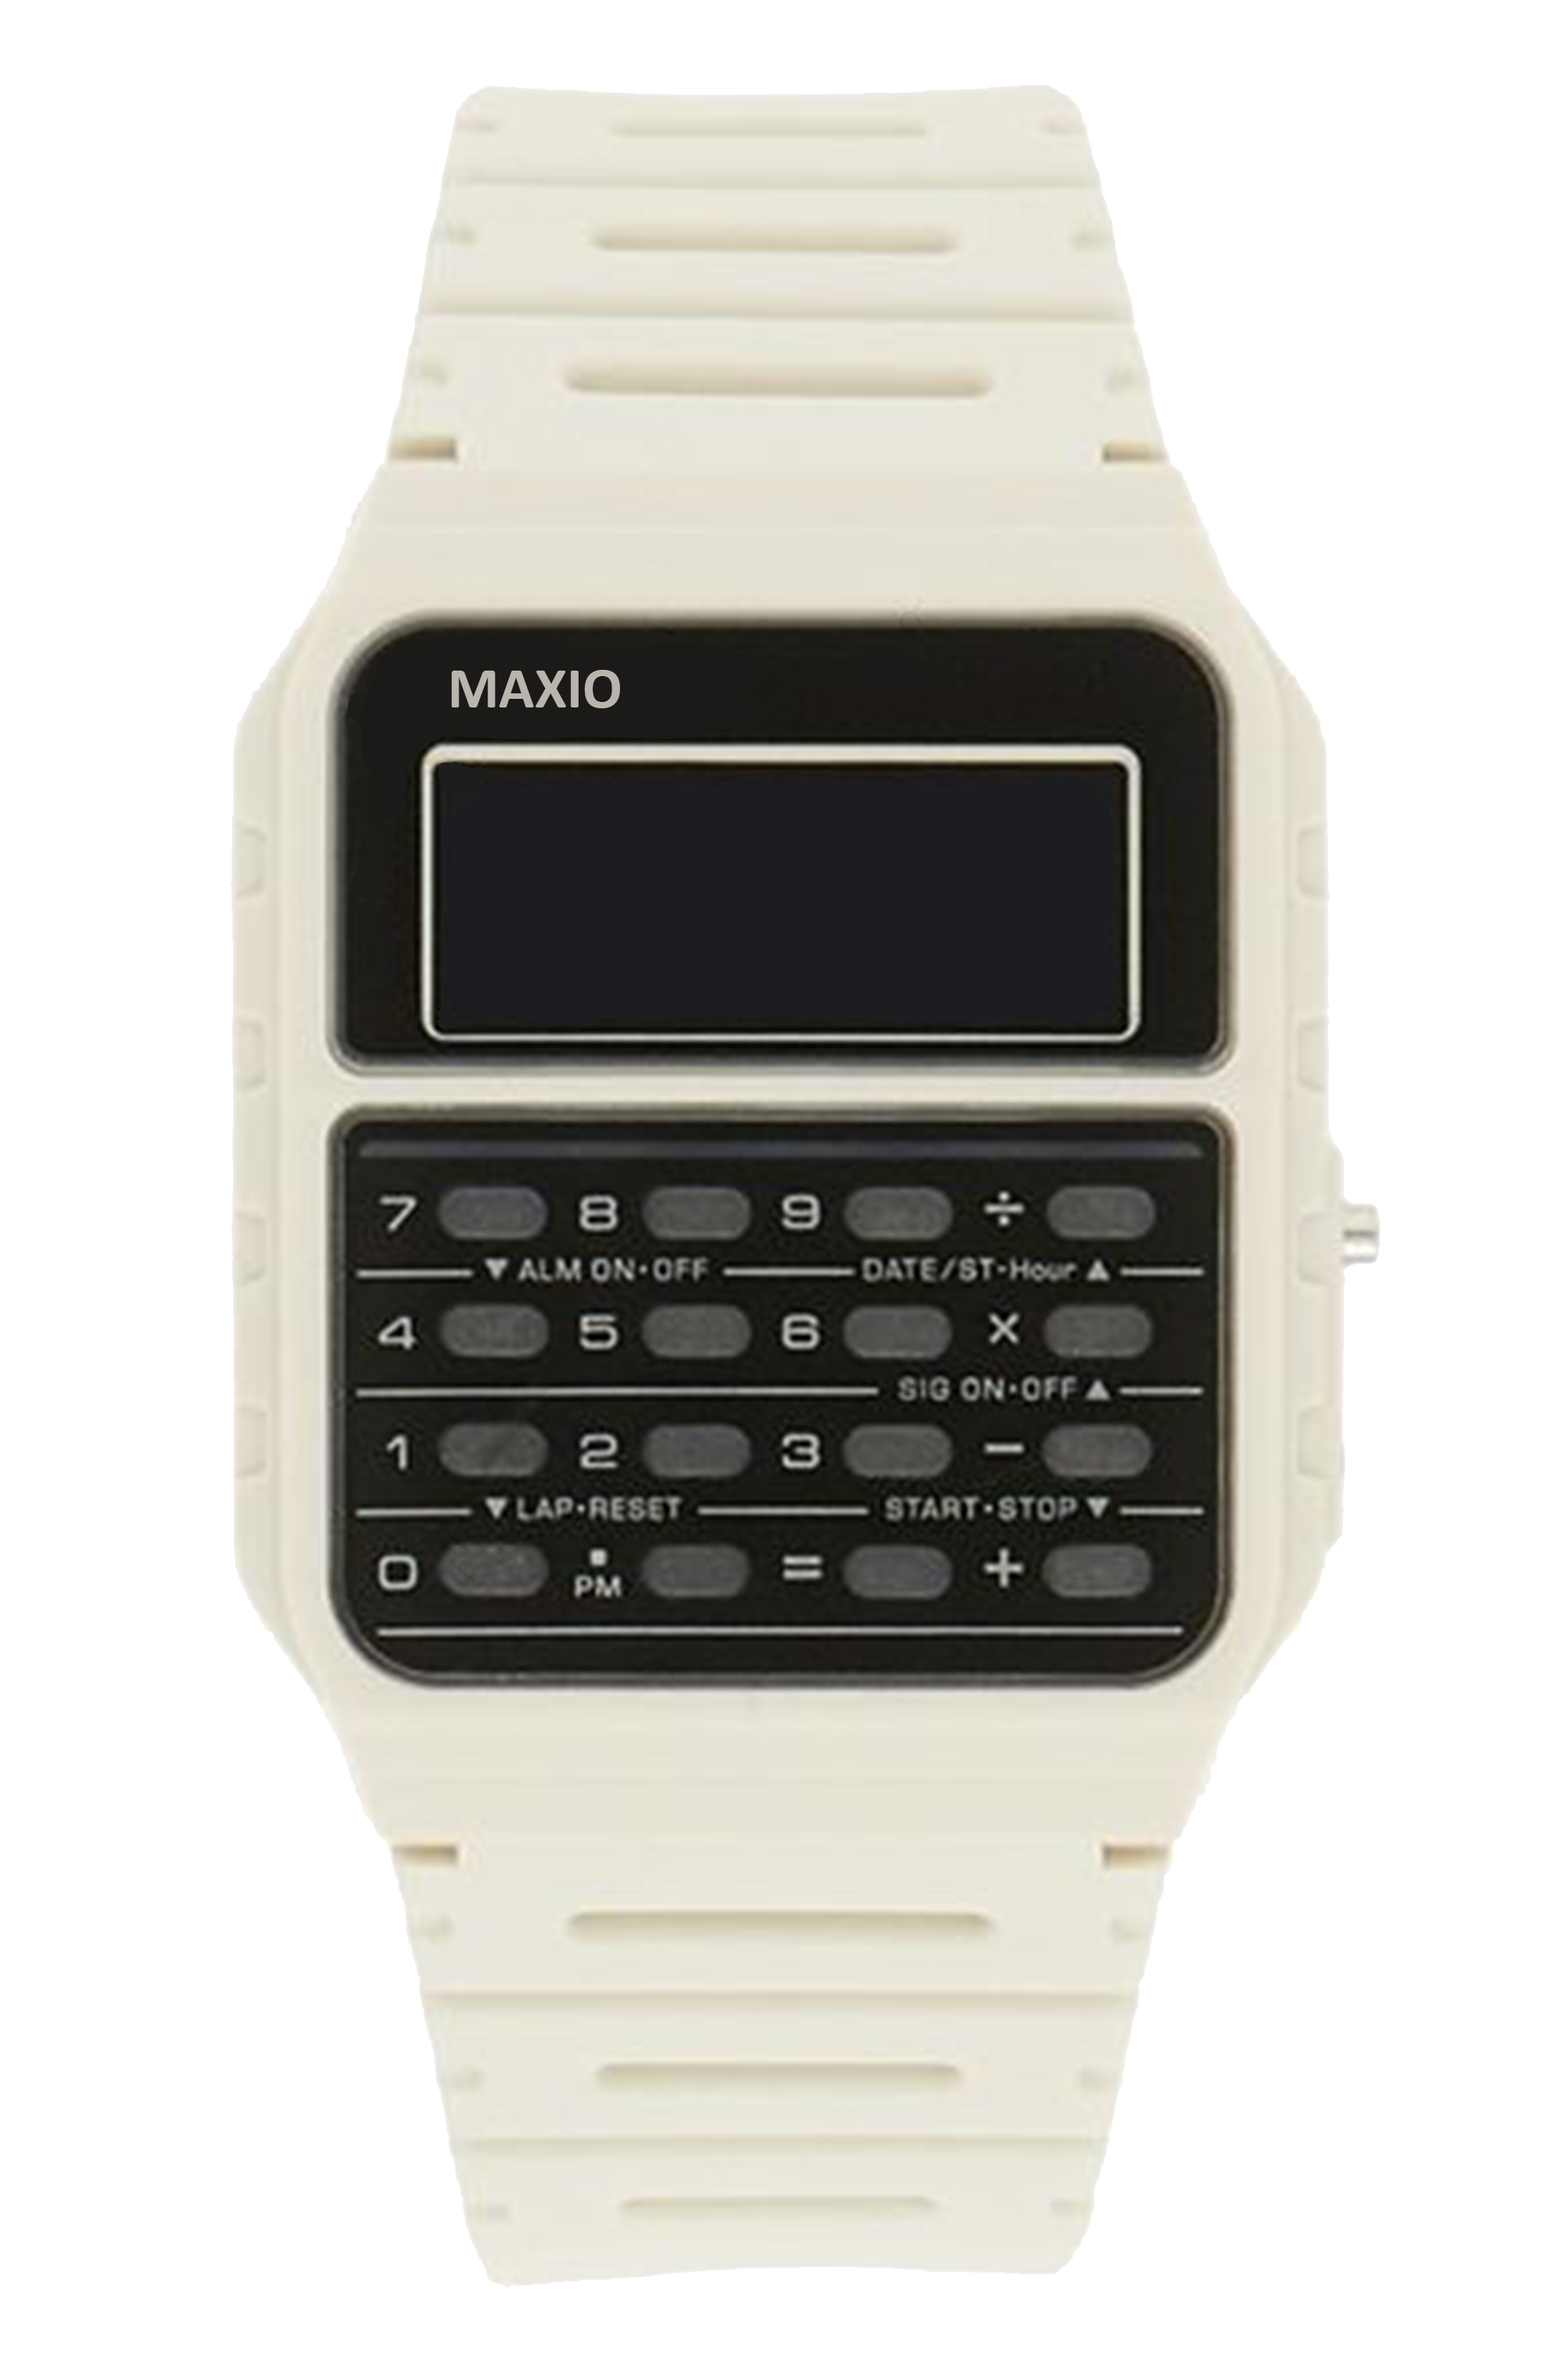
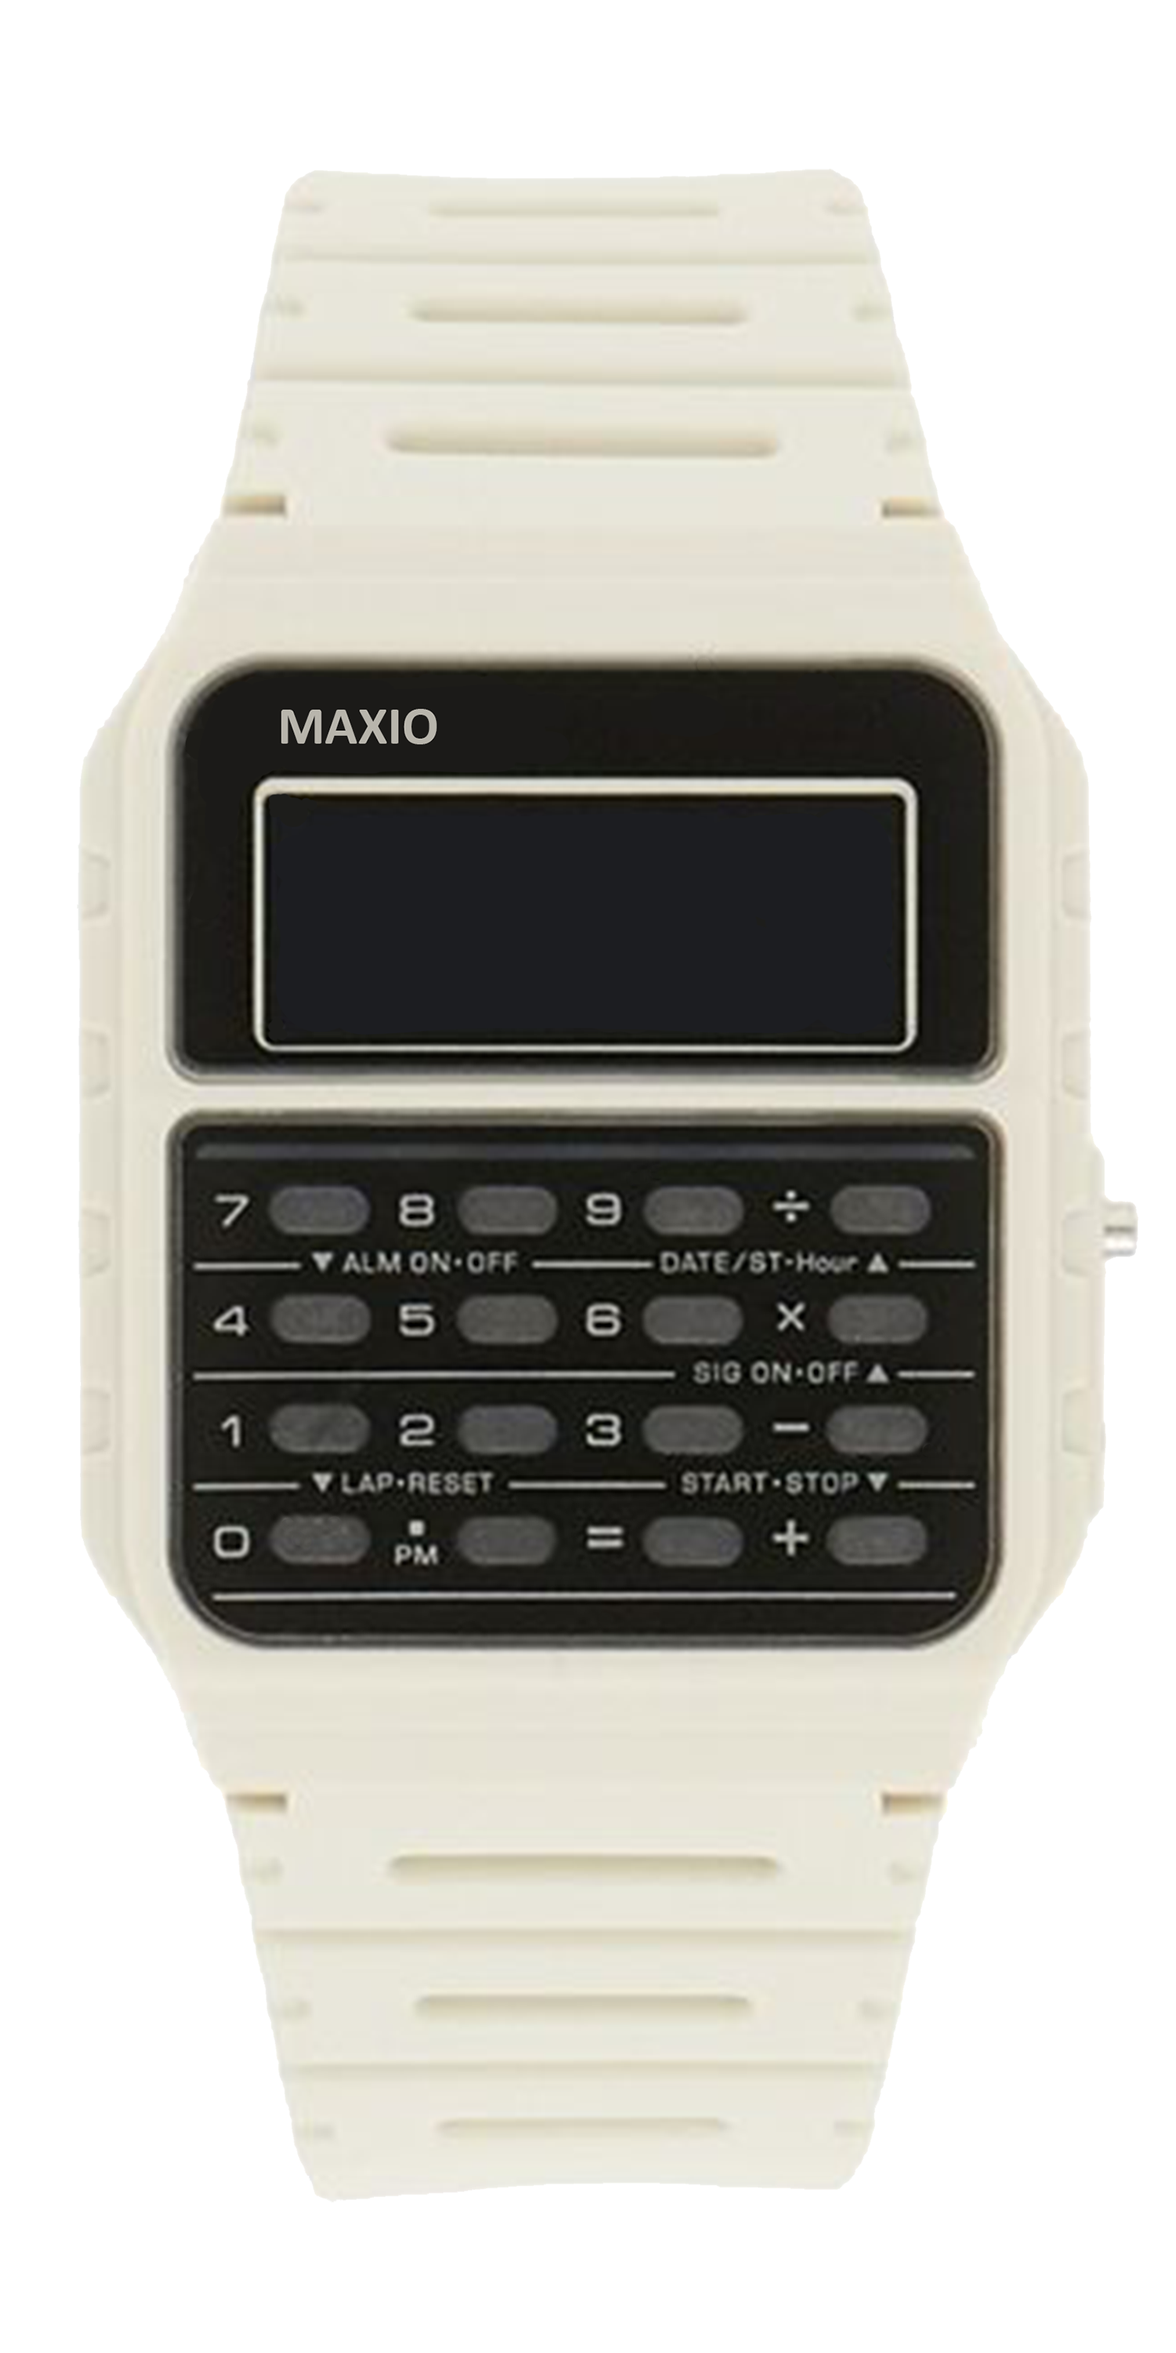
graphic resize

diff --git a/style.css b/style.css
@@ -19,6 +19,7 @@ body {
 }
 
 .main-container {
+  /* background-color: #ffffff33; */
   position: relative;
   width: 100%;
   max-width: 400px;
@@ -26,7 +27,7 @@ body {
 }
 
 .height-container {
-  padding-bottom: 150%;
+  padding-bottom: 200%;
 }
 
 #graphic-container {
@@ -42,16 +43,18 @@ body {
 }
 
 .display-area {
+  /* background-color: #ff333333; */
   position: absolute;
-  margin-top: 40%;
-  margin-left: 22%;
-  width: 56%;
-  height: 43%;
+  margin-top: 56%;
+  margin-left: 15%;
+  width: 70%;
+  height: 42%;
 }
 
 #symbol {
-  height: 10%;
-  margin-top: 15%;
+  /* background-color: #ffff3333; */
+  height: 7%;
+  margin-top: 16%;
   margin-left: 10%;
   margin-right: 10%;
   font-size: 20px;
@@ -60,23 +63,31 @@ body {
   color: #7d7855;
 }
 
+#ampm {
+  /* background-color: #7722dd33; */
+  height: 5%;
+  margin-left: 10%;
+  margin-right: 10%;
+}
+
 #display {
-  height: 15%;
+  /* background-color: #ff33ff33; */
+  height: 14%;
   margin-left: 10%;
   margin-right: 13%;
-  margin-top: 2%;
   font-family: 'alarm';
-  font-size: 35px;
+  font-size: 44px;
   text-align: right;
   color: #7d7855;
 }
 
 .buttons {
+  /* background-color: #ff33ff33; */
   display: grid;
   grid-template-columns: 1fr 1fr 1fr 1fr;
-  margin-top: 14%;
+  margin-top: 12%;
   width: 100%;
-  height: 48%;
+  height: 46%;
 }
 
 .buttons:hover {
@@ -91,7 +102,7 @@ body {
 
 @media only screen and (max-width: 400px) {
   #display {
-    font-size: calc(8.8vw);
+    font-size: calc(11vw);
   }
   #symbol {
     font-size: calc(5vw);

diff --git a/index.html b/index.html
@@ -18,6 +18,7 @@
         </div>
         <div class="display-area">
           <div id="symbol"></div>
+          <div id="ampm"></div>
           <div id="display"></div>
           <div class="buttons">
             <div class="button" id="7"></div>
